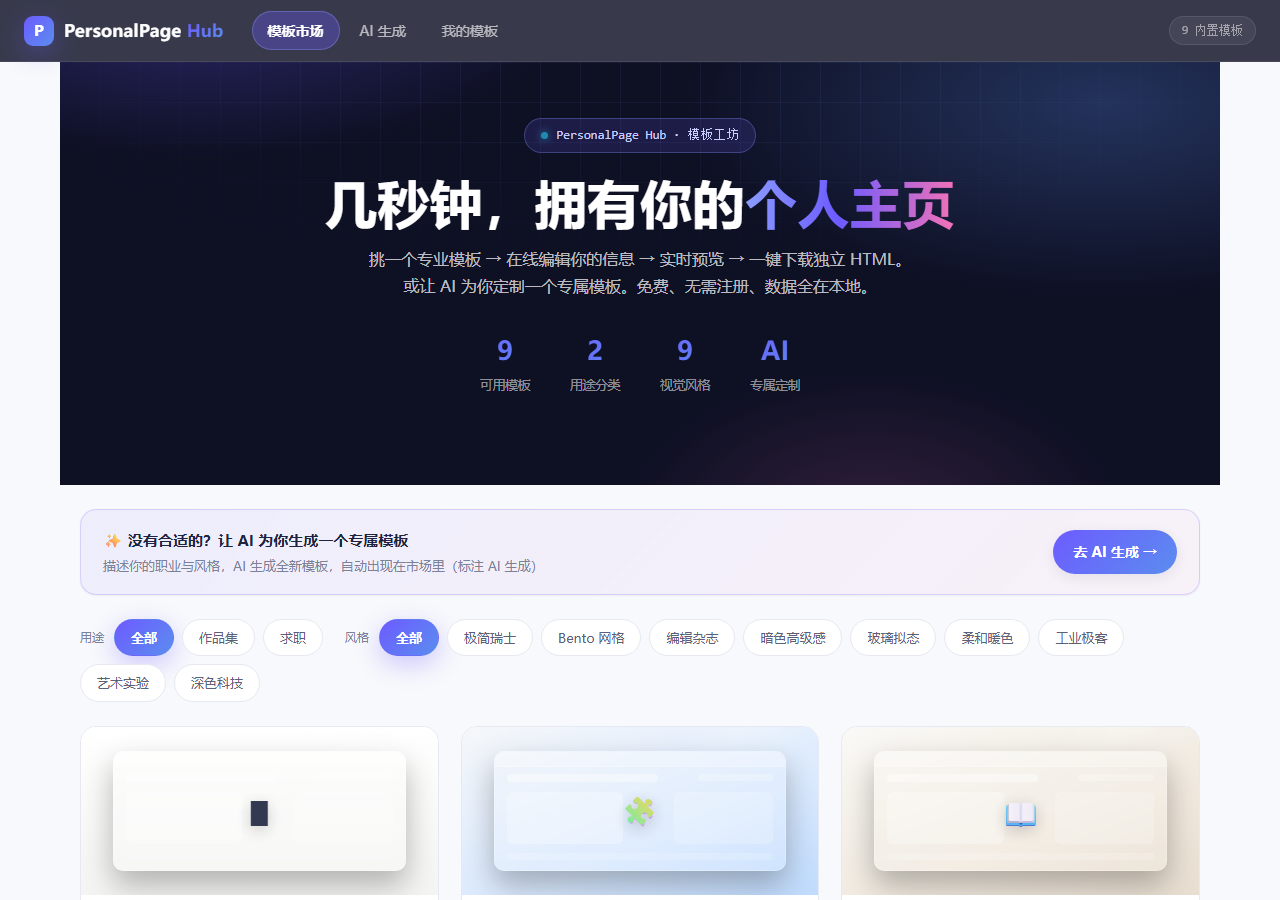
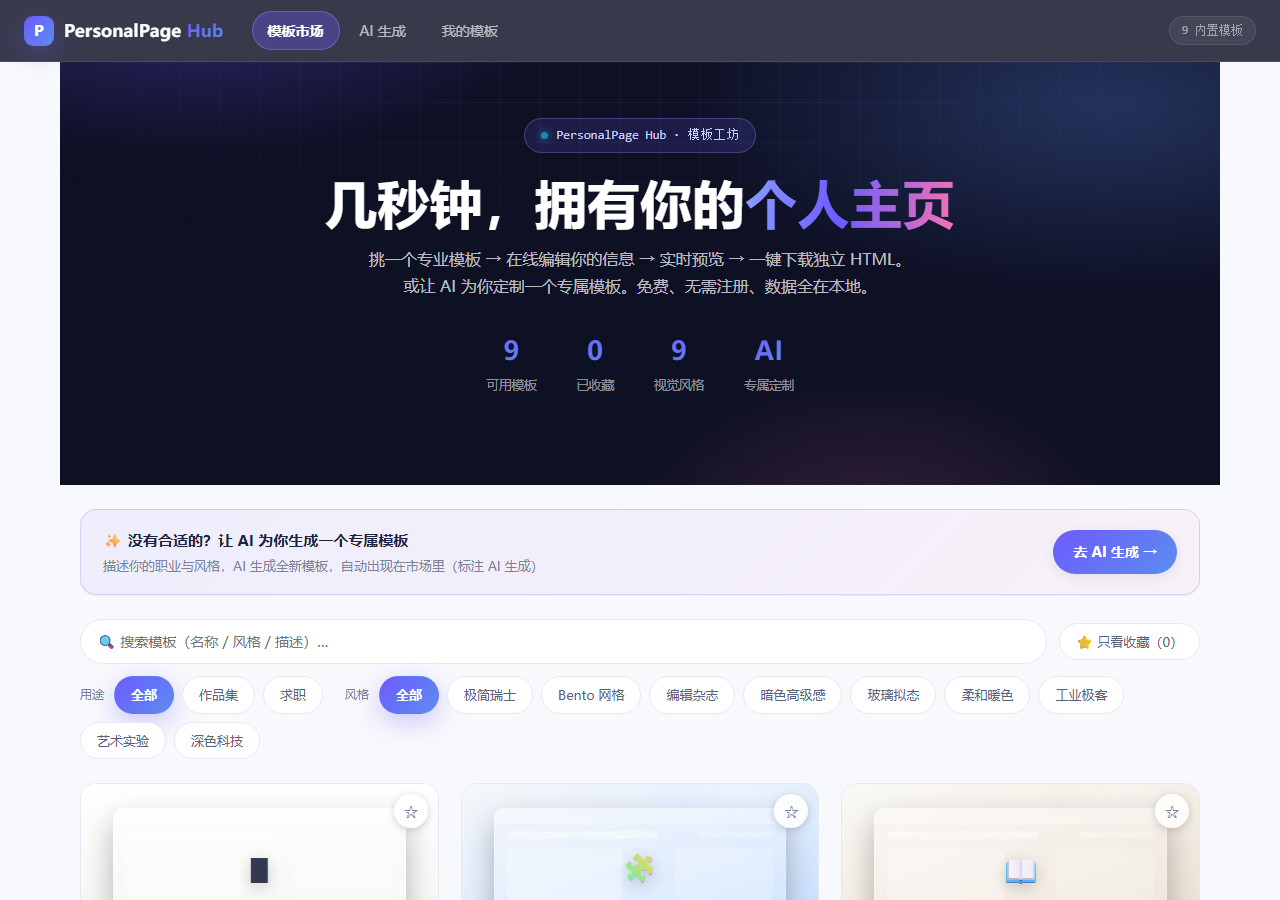
feat: 模板收藏 + 市场搜索
- 市场页模板星标收藏（localStorage，收藏优先排序 + 只看收藏筛选）
- 搜索框（名称/风格/描述/副标题模糊搜索）
- 收藏按钮样式（封面右上角星标，hover 放大）

diff --git a/src/pages/Market.jsx b/src/pages/Market.jsx
@@ -2,10 +2,14 @@ import { useMemo, useState } from 'react'
 import { allTemplates, countBrokenOutputs, removeAllBrokenOutputs } from '../templates/index.js'
 import { downloadTemplate } from '../engine/export.js'
 import PreviewFrame from '../engine/PreviewFrame.jsx'
+import { loadFavorites, toggleFavorite } from '../store.js'
 
 export default function Market({ nav }) {
   const [cat, setCat] = useState('全部')
   const [style, setStyle] = useState('全部')
+  const [query, setQuery] = useState('')
+  const [onlyFav, setOnlyFav] = useState(false)
+  const [favs, setFavs] = useState(loadFavorites)
   const [previewId, setPreviewId] = useState(null)
   const [brokenN, setBrokenN] = useState(countBrokenOutputs)
 
@@ -14,12 +18,25 @@ export default function Market({ nav }) {
   const cats = ['全部', ...new Set(templates.map((t) => t.category))]
   const styles = ['全部', ...new Set(templates.map((t) => t.style))]
 
-  const list = useMemo(() => templates.filter((t) =>
-    (cat === '全部' || t.category === cat) && (style === '全部' || t.style === style)
-  ), [templates, cat, style])
+  const list = useMemo(() => {
+    const q = query.trim().toLowerCase()
+    return templates
+      .filter((t) =>
+        (cat === '全部' || t.category === cat) &&
+        (style === '全部' || t.style === style) &&
+        (!onlyFav || favs.includes(t.id)) &&
+        (q === '' || `${t.name} ${t.description} ${t.style} ${t.tagline || ''}`.toLowerCase().includes(q))
+      )
+      .sort((a, b) => (favs.includes(b.id) ? 1 : 0) - (favs.includes(a.id) ? 1 : 0)) // 收藏优先
+  }, [templates, cat, style, query, onlyFav, favs])
 
   const download = (t) => {
     downloadTemplate(t, structuredClone(t.defaults), `${t.id}.html`)
+  }
+
+  const onToggleFav = (e, id) => {
+    e.stopPropagation()
+    setFavs(toggleFavorite(id))
   }
 
   return (
@@ -32,7 +49,7 @@ export default function Market({ nav }) {
           <p className="sub">挑一个专业模板 → 在线编辑你的信息 → 实时预览 → 一键下载独立 HTML。或让 AI 为你定制一个专属模板。免费、无需注册、数据全在本地。</p>
           <div className="hero-stats">
             <div className="hs"><b>{templates.length}</b><span>可用模板</span></div>
-            <div className="hs"><b>{cats.length - 1}</b><span>用途分类</span></div>
+            <div className="hs"><b>{favs.length}</b><span>已收藏</span></div>
             <div className="hs"><b>{styles.length - 1}</b><span>视觉风格</span></div>
             <div className="hs"><b>AI</b><span>专属定制</span></div>
           </div>
@@ -63,8 +80,18 @@ export default function Market({ nav }) {
         </div>
       )}
 
-      {/* 筛选 */}
-      <div className="filters" style={{ marginTop: 24 }}>
+      {/* 搜索 + 筛选 */}
+      <div style={{ display: 'flex', gap: 12, marginTop: 24, flexWrap: 'wrap', alignItems: 'center' }}>
+        <input
+          type="search"
+          placeholder="🔍 搜索模板（名称 / 风格 / 描述）…"
+          value={query}
+          onChange={(e) => setQuery(e.target.value)}
+          style={{ flex: 1, minWidth: 220, padding: '10px 16px', borderRadius: 999, border: '1px solid var(--border)', background: '#fff', fontSize: 14, outline: 'none' }}
+        />
+        <button className={`chip-btn ${onlyFav ? 'active' : ''}`} onClick={() => setOnlyFav(!onlyFav)}>⭐ 只看收藏（{favs.length}）</button>
+      </div>
+      <div className="filters" style={{ marginTop: 12 }}>
         <span className="fl">用途</span>
         {cats.map((c) => <button key={c} className={`chip-btn ${cat === c ? 'active' : ''}`} onClick={() => setCat(c)}>{c}</button>)}
         <span className="fl" style={{ marginLeft: 14 }}>风格</span>
@@ -82,6 +109,11 @@ export default function Market({ nav }) {
               </div>
               <span className="emoji" aria-hidden="true">{t.coverEmoji || '📄'}</span>
               <span className="preview-hint">预览模板 →</span>
+              <button
+                className={`fav-btn ${favs.includes(t.id) ? 'on' : ''}`}
+                aria-label={favs.includes(t.id) ? '取消收藏' : '收藏此模板'}
+                onClick={(e) => onToggleFav(e, t.id)}
+              >{favs.includes(t.id) ? '★' : '☆'}</button>
             </div>
             <div className="tpl-body">
               <h3>{t.name}</h3>
@@ -102,11 +134,11 @@ export default function Market({ nav }) {
       {list.length === 0 && (
         <div className="empty-state">
           <div className="ring">🔍</div>
-          <h3>没有匹配的模板</h3>
-          <p>换个筛选条件试试，或让 AI 直接为你生成</p>
+          <h3>{query || onlyFav ? '没有匹配的模板' : '模板库是空的'}</h3>
+          <p>{onlyFav ? '还没有收藏任何模板，点击卡片右上角 ☆ 即可收藏。' : '换个筛选条件试试，或让 AI 直接为你生成'}</p>
           <div style={{ display: 'flex', gap: 10, justifyContent: 'center', marginTop: 16 }}>
-            <button className="btn btn-p" onClick={() => { setCat('全部'); setStyle('全部') }}>清除筛选</button>
-            <button className="btn btn-line" onClick={() => nav('ai')}>✨ AI 生成</button>
+            <button className="btn btn-p" onClick={() => { setCat('全部'); setStyle('全部'); setQuery(''); setOnlyFav(false) }}>清除筛选</button>
+            {!onlyFav && <button className="btn btn-line" onClick={() => nav('ai')}>✨ AI 生成</button>}
           </div>
         </div>
       )}

diff --git a/src/styles.css b/src/styles.css
@@ -206,6 +206,16 @@ h1, h2, h3, h4 { font-family: var(--font-display); letter-spacing: .2px; }
 .tpl-cover .mini .row { position: absolute; bottom: 10px; left: 12px; right: 12px; height: 7px; border-radius: 4px; background: rgba(255,255,255,.16); }
 .tpl-cover .mini .row + .row { bottom: 24px; width: 66%; }
 .tpl-cover .emoji { position: absolute; font-size: 30px; opacity: .9; filter: drop-shadow(0 4px 8px rgba(0,0,0,.2)); }
+.tpl-cover .fav-btn {
+  position: absolute; top: 10px; right: 10px; z-index: 3;
+  width: 34px; height: 34px; border-radius: 50%;
+  background: rgba(255,255,255,.85); backdrop-filter: blur(4px);
+  display: grid; place-items: center; font-size: 17px; color: var(--muted);
+  box-shadow: 0 2px 8px rgba(0,0,0,.18);
+  transition: transform .12s, color .12s;
+}
+.tpl-cover .fav-btn:hover { transform: scale(1.12); }
+.tpl-cover .fav-btn.on { color: #F59E0B; }
 .tpl-cover .preview-hint {
   position: absolute; inset: 0; display: grid; place-items: center; opacity: 0; transition: opacity var(--dur-base);
   background: rgba(14,16,36,.6); color: #fff; font-size: 13.5px; font-weight: 600; backdrop-filter: blur(2px);

diff --git a/src/store.js b/src/store.js
@@ -30,3 +30,21 @@ export function removeMine(id) {
 export function getMine(id) {
   return loadMine().find((x) => x.id === id)
 }
+
+/* ============ 模板收藏（内置 + AI 模板通用） ============ */
+const FAV_KEY = 'pph-favorite-templates'
+
+export function loadFavorites() {
+  try { const v = JSON.parse(localStorage.getItem(FAV_KEY)); return Array.isArray(v) ? v : [] } catch { return [] }
+}
+export function isFavorite(id) {
+  return loadFavorites().includes(id)
+}
+export function toggleFavorite(id) {
+  const list = loadFavorites()
+  const idx = list.indexOf(id)
+  if (idx >= 0) list.splice(idx, 1)
+  else list.push(id)
+  localStorage.setItem(FAV_KEY, JSON.stringify(list))
+  return idx < 0
+}
